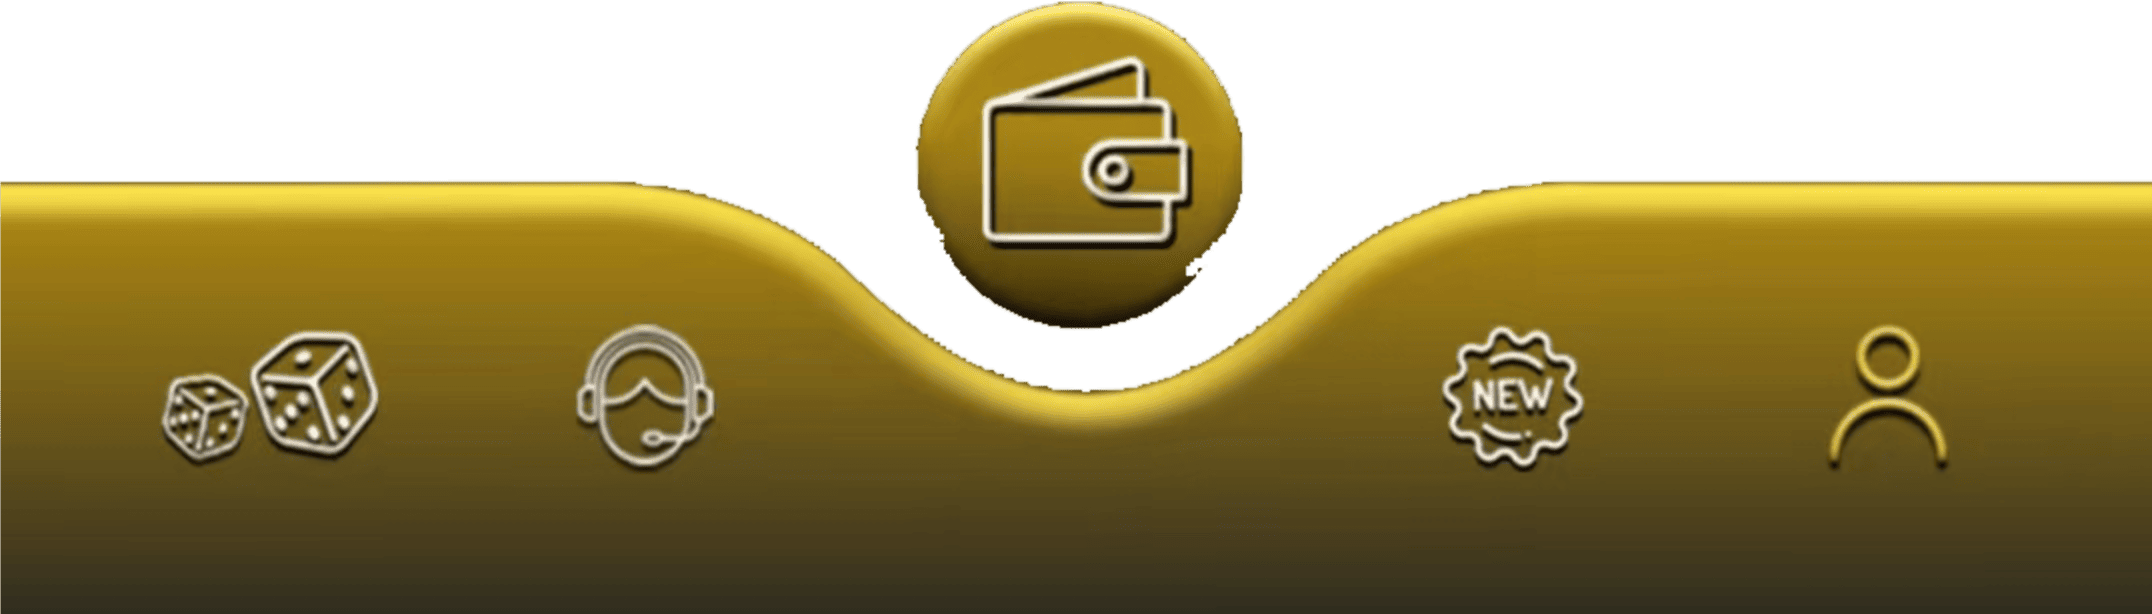
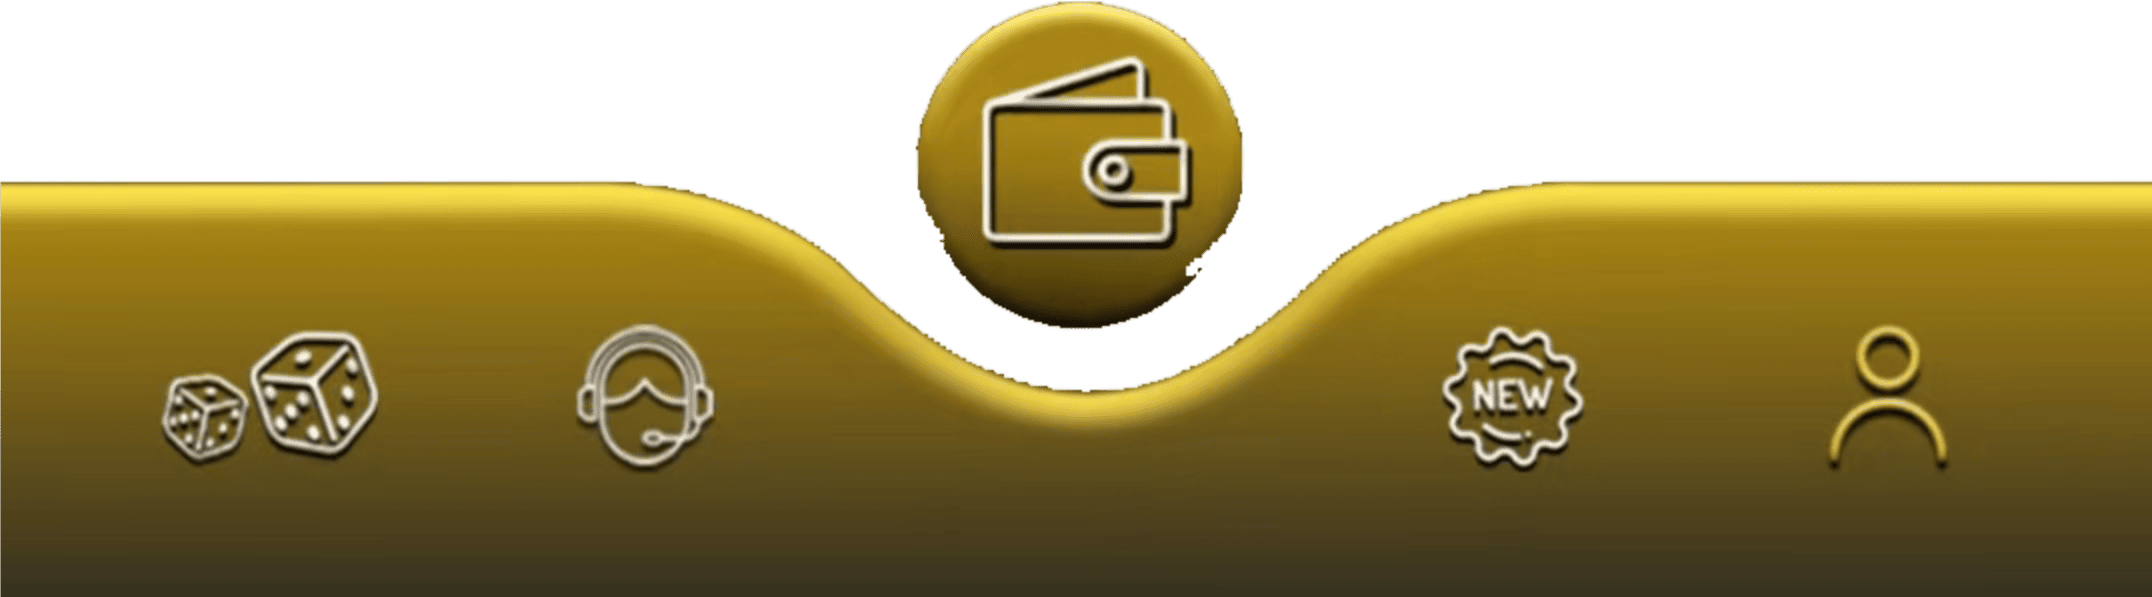
Add files via upload

diff --git a/assets/js/app.js b/assets/js/app.js
@@ -24,8 +24,6 @@ document.addEventListener('DOMContentLoaded', () => {
     claimWin: 'screen-claim-win',
   };
 
-  const MAGIC_PLAYBACK_RATE = 4.0; // Magic box videos play 4× faster
-
   // --- State ---
   let currentScreen = SCREENS.home;
   let winStage = 0;           // Flip-card progress after all cards are revealed
@@ -83,15 +81,47 @@ document.addEventListener('DOMContentLoaded', () => {
   }
 
   /**
-   * Crossfade screens. For the magic→flipcard transition, screen 4 is
-   * made visible first (z-index 10) then screen 3 fades out behind it —
-   * both overlap at the same position so the card area looks continuous.
+   * Switch screens with the same 0.9s black overlay fade used by OPEN NOW.
+   * overlay fades in → switch screen (instant, hidden behind overlay) → overlay fades out.
    */
-  function showScreen(screenId, options = {}) {
+  function showScreenWithOverlay(screenId, options = {}) {
     if (screenId === currentScreen) return;
 
     abortMagicSequence();
     pauseAllMedia();
+
+    const nextScreen = document.getElementById(screenId);
+    if (!nextScreen) return;
+
+    const overlay = document.getElementById('global-overlay');
+
+    // Phase 1: fade overlay in (0.9s)
+    if (overlay) overlay.classList.add('is-fading-in');
+
+    // Phase 2: after overlay is fully opaque, switch screen behind it
+    setTimeout(() => {
+      showScreen(screenId, options);
+
+      // Phase 3: fade overlay out revealing the new screen
+      requestAnimationFrame(() => {
+        requestAnimationFrame(() => {
+          if (overlay) {
+            overlay.classList.remove('is-fading-in');
+            overlay.classList.add('is-fading-out');
+            setTimeout(() => overlay.classList.remove('is-fading-out'), 400);
+          }
+        });
+      });
+    }, 400);
+  }
+
+  /**
+   * Crossfade screens using the base .game-screen opacity transition.
+   * Screen 3 → Screen 4 is an instant swap (no fade) so the card
+   * entrance animation plays cleanly without a fade gap.
+   */
+  function showScreen(screenId, options = {}) {
+    if (screenId === currentScreen) return;
 
     const outgoing = document.getElementById(currentScreen);
     const nextScreen = document.getElementById(screenId);
@@ -102,27 +132,28 @@ document.addEventListener('DOMContentLoaded', () => {
     currentScreen = screenId;
 
     requestAnimationFrame(() => {
+      // Pre-warm screen 2 video
       if (screenId === SCREENS.heightReward) {
         const v = document.getElementById('myVideo');
         if (v) { v.muted = !(options.withSound); v.currentTime = 0; v.play().catch(() => {}); }
       }
 
       if (fromMagicToFlip) {
-        // Screen 4 activates immediately at z-index 10 (cards visible)
-        nextScreen.classList.add('active');
-        initFlipCardVideo();
-        winStage = 0;
-
-        // Screen 3 fades out behind screen 4 — seamless overlap
+        // Instant swap — no fade, special classes suppress transition
         if (outgoing) {
           outgoing.classList.remove('active');
-          outgoing.classList.add('leaving');
-          outgoing.addEventListener('transitionend', () => {
-            outgoing.classList.remove('leaving');
-          }, { once: true });
+          outgoing.classList.add('leaving-to-flipcard');
+          setTimeout(() => outgoing.classList.remove('leaving-to-flipcard'), 50);
         }
+        nextScreen.classList.add('no-transition', 'entering-from-magic', 'active');
+        requestAnimationFrame(() => {
+          nextScreen.classList.remove('no-transition', 'entering-from-magic');
+        });
+        document.body.classList.toggle('with-menubar', false);
+        winStage = 0;
+        initFlipCardVideo();
       } else {
-        // Normal crossfade for all other screen transitions
+        // Standard fade in / fade out for all other transitions
         if (outgoing) {
           outgoing.classList.remove('active');
           outgoing.classList.add('leaving');
@@ -254,16 +285,55 @@ document.addEventListener('DOMContentLoaded', () => {
     winSound.play().catch(() => {});
   }
 
-  // --- Global click handler: navigation + flip-card win progression ---
+  // --- Global click handler ---
   document.addEventListener('click', (e) => {
 
-    // Any link with data-screen switches screens
     const navLink = e.target.closest('[data-screen]');
     if (navLink) {
       e.preventDefault();
 
-      // OPEN NOW stays disabled until all J-O-K-E-R letters are selected
-      if (navLink.classList.contains('open-button') && !navLink.classList.contains('active')) {
+      // OPEN NOW — disabled until all J-O-K-E-R letters selected
+      if (navLink.classList.contains('open-button')) {
+        if (!navLink.classList.contains('active')) return;
+        if (navLink.classList.contains('is-opening')) return;
+
+        navLink.classList.add('is-opening');
+
+        // Black overlay fades in over 0.6s
+        const overlay = document.getElementById('global-overlay');
+        if (overlay) overlay.classList.add('is-fading-in');
+
+        // After 0.6s overlay is fully black → switch to screen 3 behind it
+        setTimeout(() => {
+          navLink.classList.remove('is-opening');
+
+          // Show screen 3 instantly (no fade) — overlay is covering it
+          const magicScreen = document.getElementById(SCREENS.magicBox);
+          if (magicScreen) magicScreen.classList.add('no-transition');
+
+          showScreen(SCREENS.magicBox);
+
+          // Overlay fades out revealing screen 3 smoothly
+          requestAnimationFrame(() => {
+            requestAnimationFrame(() => {
+              if (magicScreen) magicScreen.classList.remove('no-transition');
+              if (overlay) {
+                overlay.classList.remove('is-fading-in');
+                overlay.classList.add('is-fading-out');
+                setTimeout(() => overlay.classList.remove('is-fading-out'), 600);
+              }
+            });
+          });
+        }, 600);
+
+        return;
+      }
+
+      // Screen 1 → Screen 2: use overlay transition
+      if (currentScreen === SCREENS.home && navLink.dataset.screen === SCREENS.heightReward) {
+        showScreenWithOverlay(navLink.dataset.screen, {
+          withSound: navLink.dataset.withSound === 'true',
+        });
         return;
       }
 
@@ -273,7 +343,7 @@ document.addEventListener('DOMContentLoaded', () => {
       return;
     }
 
-    // Tap magic video area → skip to flip cards with sound
+    // Tap magic video area → skip to flip cards
     const magicWrapper = e.target.closest('.magic-wrapper');
     if (magicWrapper && currentScreen === SCREENS.magicBox) {
       e.preventDefault();
@@ -315,13 +385,13 @@ document.addEventListener('DOMContentLoaded', () => {
 
       card.classList.add('is-flipped');
 
-      // Once all cards are flipped, auto-advance to Claim Win
+      // Once all cards are flipped, auto-advance to Claim Win with overlay
       if (checkAllFlipped() && winStage === 0) {
         winStage = 1;
         const delay = Math.floor(Math.random() * 1000) + 2000;
         autoAdvanceTimer = setTimeout(() => {
           if (currentScreen === SCREENS.flipCard) {
-            showScreen(SCREENS.claimWin);
+            showScreenWithOverlay(SCREENS.claimWin);
           }
         }, delay);
       }

diff --git a/assets/css/app.css b/assets/css/app.css
@@ -848,6 +848,28 @@ img.rm-bg {
     pointer-events: none;
 }
 
+/* Black overlay fades in on top of everything */
+.global-overlay {
+    position: fixed;
+    inset: 0;
+    background: #000;
+    z-index: 9999;
+    opacity: 0;
+    pointer-events: none;
+    transition: opacity 0.4s cubic-bezier(0.4, 0, 0.2, 1);
+}
+
+.global-overlay.is-fading-in {
+    opacity: 1;
+    pointer-events: auto;
+    transition: opacity 0.4s cubic-bezier(0.4, 0, 0.2, 1);
+}
+
+.global-overlay.is-fading-out {
+    opacity: 0;
+    transition: opacity 0.4s cubic-bezier(0.4, 0, 0.2, 1);
+}
+
 .claim-now-button img {
     filter: grayscale(1);
     transition: 0.3s ease;
@@ -913,18 +935,15 @@ a.close_icon {
    SCREEN 3 → SCREEN 4 SEAMLESS TRANSITION
 ═══════════════════════════════════════════════ */
 
-/* Screen 3 leaving: only the video fades — no scale, no movement */
-#screen-magic-box.leaving {
+/* Screen 3 → Screen 4: no fade transition (handled as instant swap in JS) */
+#screen-magic-box.leaving-to-flipcard {
     opacity: 0;
-    transition: opacity 0.6s ease,
-                visibility 0s linear 0.6s;
+    transition: none !important;
 }
 
-/* Screen 4 entering: whole screen crossfades in */
-#screen-flip-card.active {
-    animation: none;
-    transition: opacity 0.6s ease,
-                visibility 0s linear 0s;
+#screen-flip-card.entering-from-magic {
+    opacity: 1;
+    transition: none !important;
 }
 
 /* card-box always visible */

diff --git a/index.html b/index.html
@@ -68,7 +68,8 @@
 
         <!-- Screen 2: Height Reward — select J-O-K-E-R, then tap OPEN NOW -->
         <main id="screen-height-reward" class="main-app joker-bg game-screen">
-            <video id="myVideo" class="video-bg" loop playsinline muted>
+        <div class="open-overlay"></div>
+        <video id="myVideo" class="video-bg" loop playsinline muted>
                 <source src="assets/video/Main-Page.mp4" type="video/mp4">
             </video>
             <div class="claim-now-content">
@@ -229,6 +230,9 @@
         <!-- Shared sound effects (used across flip-card and claim-win screens) -->
         <audio id="cardSound" src="assets/video/card-click-solund.wav" preload="auto"></audio>
         <audio id="winSound" src="assets/video/win-sound.mp3" preload="auto"></audio>
+
+        <!-- Global transition overlay — used for OPEN NOW black fade -->
+        <div id="global-overlay" class="global-overlay"></div>
 
         <script src="assets/js/app.js"></script>
     </body>
